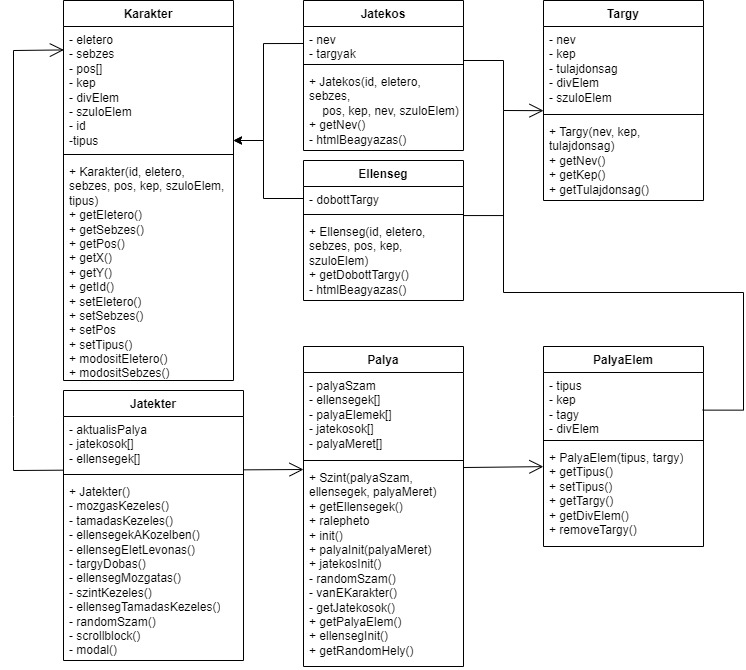
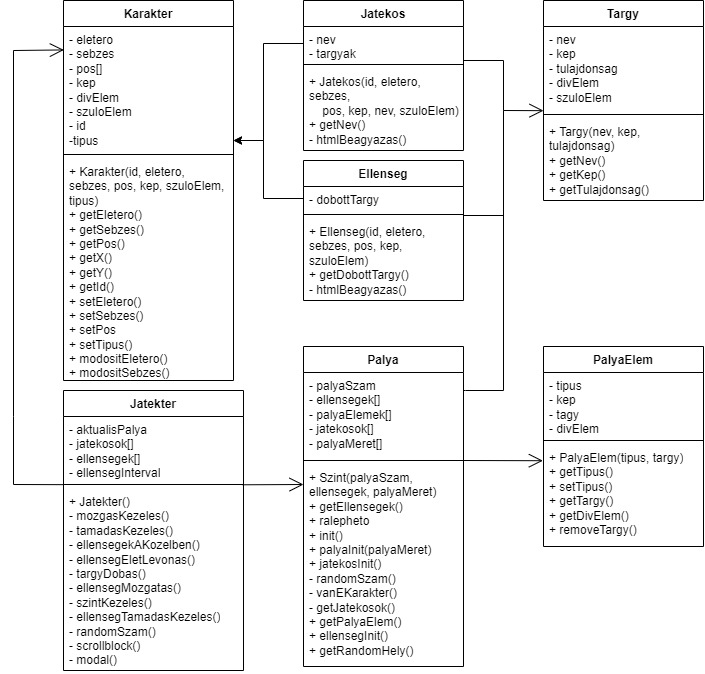
bugfix 2 : Palindromot nem frissíti ha az ellenség nyert + UML javítva

diff --git a/osztalyok/Jatekter.js b/osztalyok/Jatekter.js
@@ -7,6 +7,7 @@ class Jatekter {
     #aktualisPalya;
     #jatekosok;
     #ellensegek =[];
+    #ellensegInterval;
 
     constructor() {
         const MAIN = $("main");
@@ -23,7 +24,7 @@ class Jatekter {
             this.#jatekosok = this.#aktualisPalya.getJatekosok();
             this.#ellensegek = this.#aktualisPalya.getEllensegek();
 
-            setInterval(() => {
+            this.#ellensegInterval = setInterval(() => {
                 this.#ellensegMozgatas();
                 this.#ellensegTamadasKezeles();
             }, 1500);
@@ -279,6 +280,8 @@ class Jatekter {
 
     #modal(){
         if(this.#ellensegek.length == 0 || (this.#jatekosok[0].getEletero() <= 0 && this.#jatekosok[1].getEletero() <= 0)){
+            clearInterval(this.#ellensegInterval);
+            
             $("#myModal").css("display","block");
             let id = this.#randomSzam(0, PALINDROMOK.length);
 
